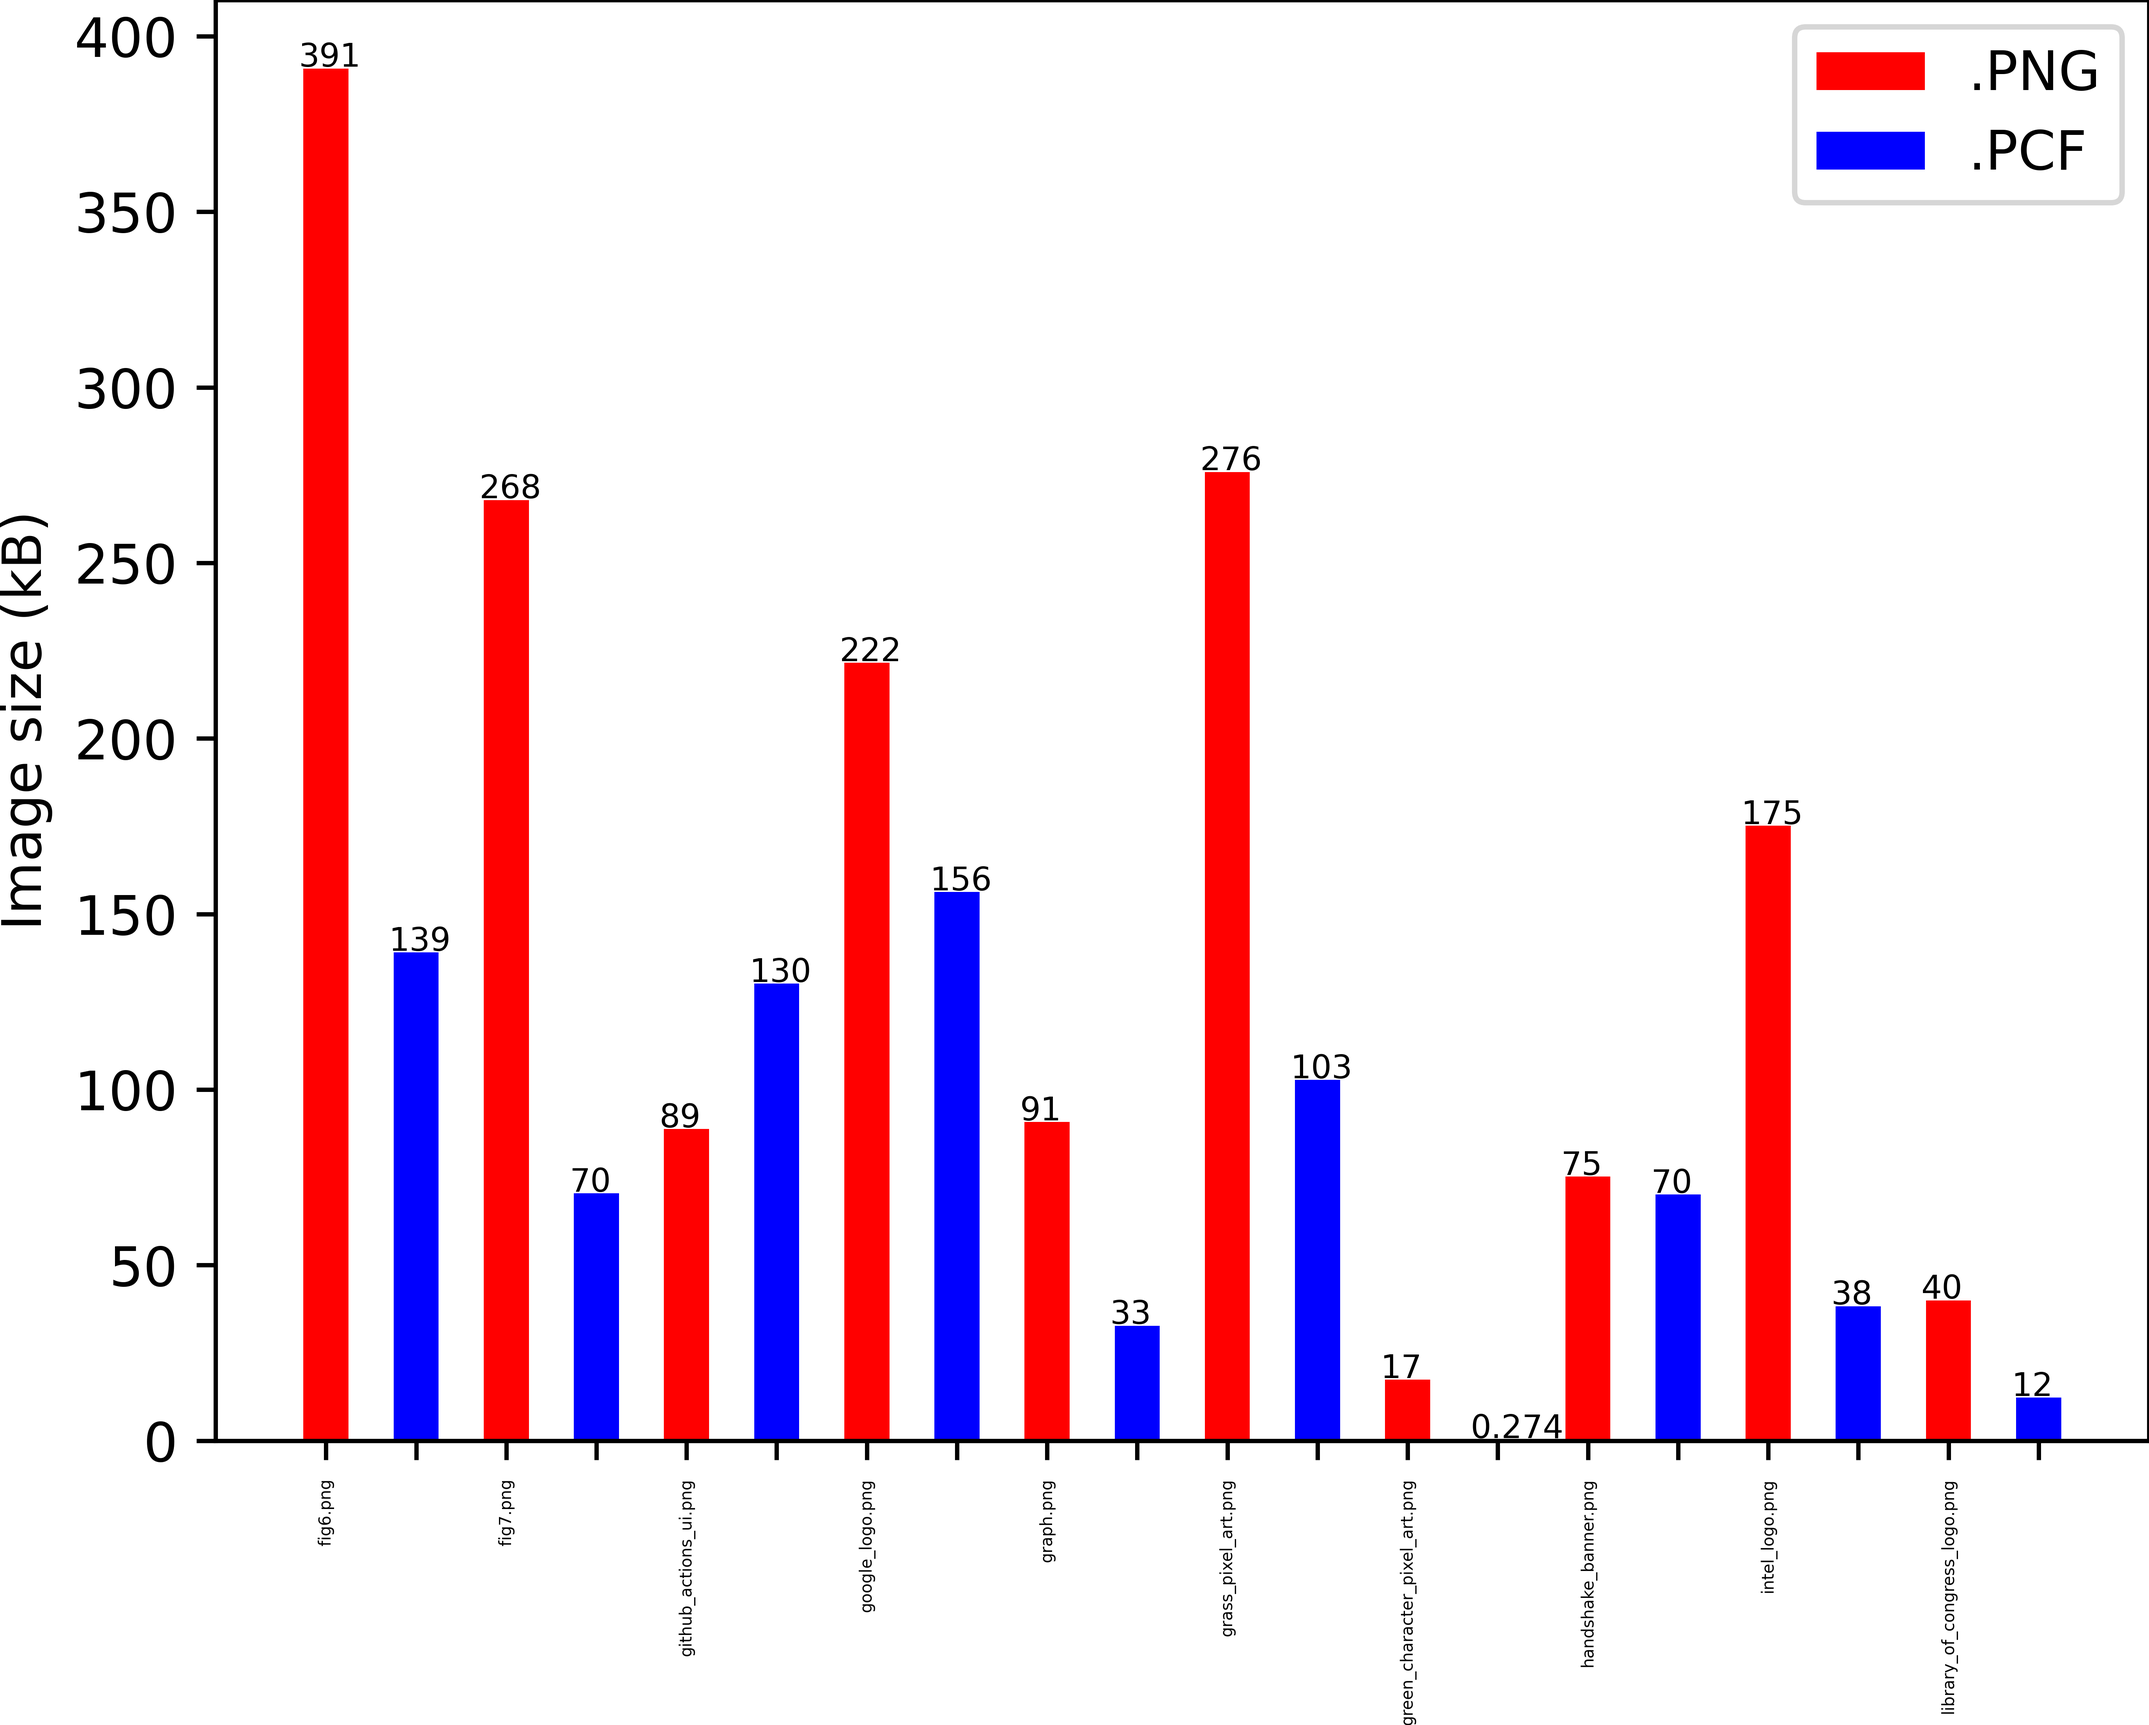
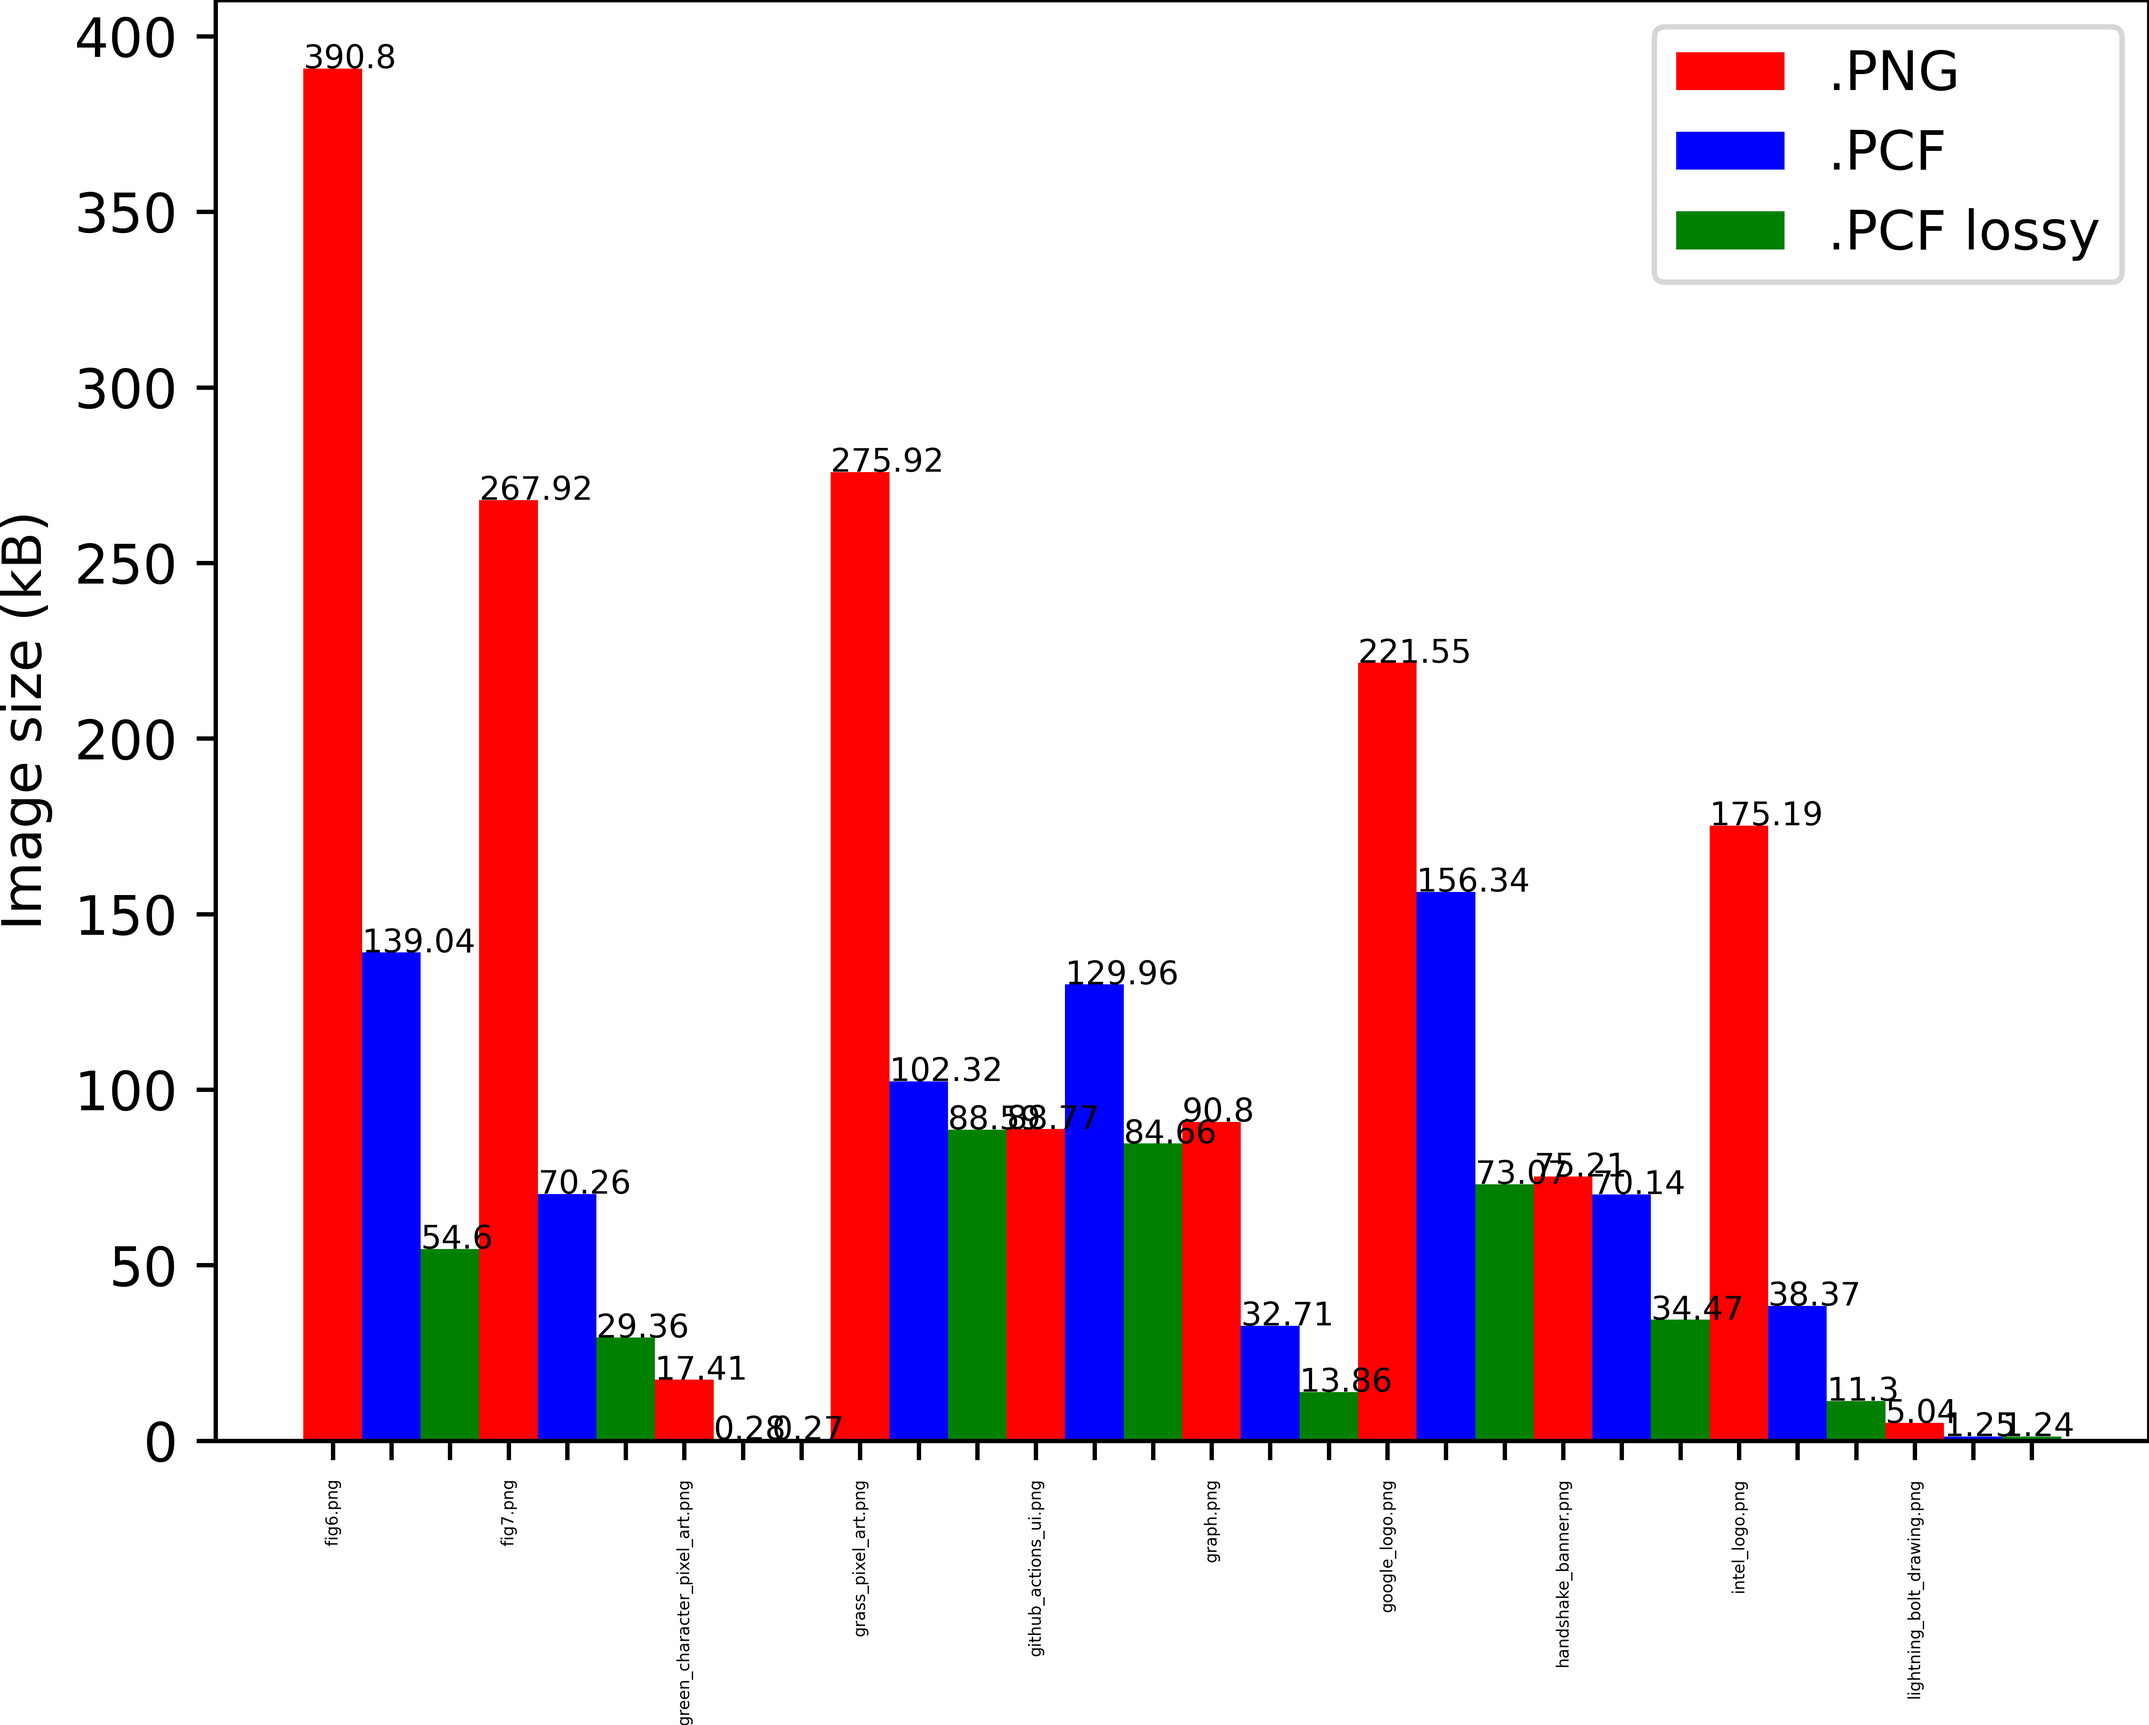
/

diff --git a/plots/plot.py b/plots/plot.py
@@ -1,7 +1,7 @@
-originals_ = [28968, 200156, 84137, 31484, 484, 69602, 122049, 24405, 40134, 27255, 3709, 40808, 17598, 15909, 6581, 411014, 380288, 365610, 392956, 361872, 390800, 267916, 88773, 221554, 90801, 275919, 17411, 75210, 175186, 39994, 5042, 7150, 42950, 1647, 111916, 85339, 44940, 127280, 80025, 1759, 8302, 15927, 1727, 48821, 1666, 221337, 31484, 6476, 70622, 26292, 24253, 29530, 18330, 8955, 140291, 7089, 325313, 206909, 4405, 1858, 9700, 104991, 4129, 3713, 1485, 31484, 9862, 27325, 52214, 21581]
-transformed = [1835, 150247, 49101, 19, 18, 592, 138754, 15451, 20154, 14531, 1152, 57940, 10217, 257, 5004, 137650, 127981, 121892, 129424, 122879, 139094, 70449, 130215, 156277, 32781, 102804, 274, 70141, 38325, 12316, 1249, 658, 17939, 241, 147577, 49773, 87911, 67028, 55255, 342, 12541, 12229, 235, 1243, 170, 163317, 21, 2804, 44526, 11737, 19780, 15769, 15382, 1222, 227504, 10638, 137950, 158356, 4877, 1090, 16839, 80389, 1299, 3582, 72, 20, 8287, 7950, 66643, 1965]
-compressed_lossy = [1835, 150247, 49101, 19, 18, 592, 138754, 15451, 20154, 14531, 1152, 57940, 10217, 257, 5004, 137650, 127981, 121892, 129424, 122879, 139094, 70449, 130215, 156277, 32781, 102804, 274, 70141, 38325, 12316, 1249, 658, 17939, 241, 147577, 49773, 87911, 67028, 55255, 342, 12541, 12229, 235, 1243, 170, 163317, 21, 2804, 44526, 11737, 19780, 15769, 15382, 1222, 227504, 10638, 137950, 158356, 4877, 1090, 16839, 80389, 1299, 3582, 72, 20, 8287, 7950, 66643, 1965]
-names = ["9_squares_solidcolor_pixel_art.png", "among_us_pixel_art.png", "astro_logo.png", "black.png", "blue.png", "blue_ball_pixel_art.png", "boat_drawing.png", "boat_pixel_art.png", "buffalo_university_logo.png", "castle_pixel_art_isometric.png", "cat_pixel_art.png", "chatgpt_logo.png", "computer_blue_screen_screenshot.png", "cube_pixel_art.png", "curve_graph.png", "fig1.png", "fig2.png", "fig3.png", "fig4.png", "fig5.png", "fig6.png", "fig7.png", "github_actions_ui.png", "google_logo.png", "graph.png", "grass_pixel_art.png", "green_character_pixel_art.png", "handshake_banner.png", "intel_logo.png", "library_of_congress_logo.png", "lightning_bolt_drawing.png", "mario-pixel-art.png", "mda_logo.png", "metal_texture_pixel_art.png", "meta_logo.png", "mountains_logo.png", "mtv_logo.png", "musescore_logo.png", "nitrogen_cycle_diagram.png", "npm_logo.png", "nyt_logo.png", "openalex_logo.png", "pixel_art_comparison.png", "pixel_art_isometric_basic_shapes.png", "Pixel_Art_Isometric_Example_3_Bigx4.png", "pplx-default-preview.png", "red.png", "resistor_schematic.png", "rgb_color_palette.png", "shop_logo.png", "simpletv_logo.png", "simple_box_model.png", "simple_shapes_rendering.png", "skulls_pixel_art.png", "skull_and_sword_pixel_art_by_dulcahn_dfn2ikx-pre.png", "spotify_logo.png", "sword_render.png", "table_drawing_schematic.png", "tark-pixel-art.png", "texture_pixel_art.png", "threads_logo.png", "tree_drawing.png", "tree_pixel_art.png", "tv_pixel_art.png", "us_flag_no_stars.png", "white.png", "wikipedia_logo.png", "wood_wall_texture_pixel_art.png", "wordpress_logo.png", "yellow_black.png"]
+names = ["among_us_pixel_art.png", "astro_logo.png", "9_squares_solidcolor_pixel_art.png", "black.png", "blue.png", "blue_ball_pixel_art.png", "boat_pixel_art.png", "boat_drawing.png", "buffalo_university_logo.png", "computer_blue_screen_screenshot.png", "chatgpt_logo.png", "cube_pixel_art.png", "cat_pixel_art.png", "curve_graph.png", "castle_pixel_art_isometric.png", "fig1.png", "fig2.png", "fig3.png", "fig4.png", "fig5.png", "fig6.png", "fig7.png", "green_character_pixel_art.png", "grass_pixel_art.png", "github_actions_ui.png", "graph.png", "google_logo.png", "handshake_banner.png", "intel_logo.png", "lightning_bolt_drawing.png", "library_of_congress_logo.png", "musescore_logo.png", "meta_logo.png", "mountains_logo.png", "mario-pixel-art.png", "mda_logo.png", "mtv_logo.png", "metal_texture_pixel_art.png", "npm_logo.png", "nyt_logo.png", "nitrogen_cycle_diagram.png", "openalex_logo.png", "pixel_art_isometric_basic_shapes.png", "pixel_Art_Isometric_Example_3_Bigx4.png", "pplx-default-preview.png", "pixel_art_comparison.png", "resistor_schematic.png", "red.png", "rgb_color_palette.png", "skulls_pixel_art.png", "simple_shapes_rendering.png", "simple_box_model.png", "sword_render.png", "spotify_logo.png", "skull_and_sword_pixel_art_by_dulcahn_dfn2ikx-pre.png", "shop_logo.png", "simpletv_logo.png", "tark-pixel-art.png", "table_drawing_schematic.png", "tv_pixel_art.png", "tree_drawing.png", "tree_pixel_art.png", "threads_logo.png", "texture_pixel_art.png", "us_flag_no_stars.png", "wordpress_logo.png", "wikipedia_logo.png", "wood_wall_texture_pixel_art.png", "white.png", "yellow_black.png"]
+originals_ = [200156, 84137, 28968, 31484, 484, 69602, 24405, 122049, 40134, 17598, 40808, 15909, 3709, 6581, 27255, 411014, 380288, 365610, 392956, 361872, 390800, 267916, 17411, 275919, 88773, 90801, 221554, 75210, 175186, 5042, 39994, 127280, 111916, 85339, 7150, 42950, 44940, 1647, 1759, 8302, 80025, 15927, 48821, 1666, 221337, 1727, 6476, 31484, 70622, 8955, 18330, 29530, 325313, 7089, 140291, 26292, 24253, 4405, 206909, 3713, 104991, 4129, 9700, 1858, 1485, 52214, 9862, 27325, 31484, 21581]
+transformed = [150258, 49029, 1845, 19, 18, 598, 15514, 138883, 20103, 10210, 58285, 263, 1159, 5015, 14539, 137626, 127795, 121999, 129246, 122993, 139042, 70262, 275, 102319, 129960, 32712, 156338, 70139, 38373, 1250, 12301, 67068, 147368, 49823, 655, 17942, 87719, 246, 344, 12543, 55302, 12206, 1239, 168, 163565, 231, 2797, 21, 44501, 1233, 15358, 15813, 138625, 10615, 227448, 11738, 19801, 4892, 158418, 3588, 80335, 1282, 16816, 1078, 73, 66592, 8301, 7918, 20, 1981]
+compressed_lossy = [72400, 30228, 433, 19, 18, 589, 14700, 68769, 7735, 8249, 20129, 258, 1145, 3027, 13178, 54908, 52232, 50201, 52621, 51131, 54604, 29363, 270, 88595, 84660, 13855, 73066, 34471, 11302, 1242, 4722, 23492, 80877, 20327, 651, 8186, 72211, 236, 199, 4180, 34149, 5863, 1227, 165, 97064, 229, 1424, 21, 20793, 1218, 14642, 8305, 105139, 4045, 114201, 4916, 5403, 4642, 64118, 2926, 31779, 1284, 5321, 1072, 72, 19890, 8286, 5624, 20, 1101]
 
 # Inspired by https://python-graph-gallery.com/10-barplot-with-number-of-observation/
 import matplotlib.pyplot as plt

diff --git a/src/data.rs b/src/data.rs
@@ -1,22 +1,22 @@
 use crate::convert;
 use std::fs;
+use std::fs::{DirEntry, File, OpenOptions};
+use std::io::{Read, Write};
 
-pub fn compare() -> (Vec<String>, Vec<usize>, Vec<usize>) {
+pub fn compare(args:Vec<String>) {
     let mut name: Vec<String> = Vec::new();
     let mut original: Vec<usize> = Vec::new();
     let mut compressed: Vec<usize> = Vec::new();
     let mut compressed_lossy: Vec<usize> = Vec::new();
 
-    let entries = fs::read_dir("test-images/").unwrap();
-    for entry in entries {
-        let entry = entry.unwrap();
-        if entry.path().file_name().unwrap().to_str().unwrap().contains("credits") {
-            continue;
+    fn test_entry(entry: DirEntry,name:&mut Vec<String>, original: &mut Vec<usize>, compressed: &mut Vec<usize>, compressed_lossy: &mut Vec<usize>) {
+        if entry.file_name().to_str().unwrap().to_string().contains("credits") {
+            return;
         }
         name.push(entry.path().file_name().unwrap().to_str().unwrap().to_string());
         original.push(fs::metadata(entry.path()).unwrap().len() as usize);
         println!("Testing lossless");
-        convert(entry.path().to_str().unwrap(), "test.pcf", false, false,false,false,false,false);
+        convert(entry.path().to_str().unwrap(), "test.pcf", false, false, false, false, false, false);
         compressed.push(fs::metadata("test.pcf").unwrap().len() as usize);
 
 
@@ -36,10 +36,34 @@ pub fn compare() -> (Vec<String>, Vec<usize>, Vec<usize>) {
         }
         compressed_lossy.push(*various_sizes.iter().min().unwrap());
         println!("{:?}", entry.path().file_name().unwrap());
+    };
+    let mut file = File::open("data.txt").unwrap();
+    let mut buffer:Vec<u8> = Vec::new();
+    let decoded = file.read_to_end(&mut buffer);
+    // if !buffer.is_empty() {
+        let result:(Vec<String>,Vec<usize>,Vec<usize>,Vec<usize>) = bincode::deserialize(&buffer).unwrap();
+        name = result.0;
+        original = result.1;
+        compressed = result.2;
+        compressed_lossy = result.3;
+    // }
+
+    let entries = fs::read_dir("test-images/").unwrap();
+    for entry in entries {
+        let fuck = entry.unwrap();
+        if fuck.file_name().to_str().unwrap().to_string().starts_with(args.get(1).unwrap()) {
+            test_entry(fuck, &mut name, &mut original, &mut compressed, &mut compressed_lossy);
+        }
     }
     println!("{name:?}");
     println!("{original:?}");
     println!("{compressed:?}");
     println!("{compressed_lossy:?}");
-    (name, original, compressed)
+    let encoded = bincode::serialize(&(name, original, compressed, compressed_lossy)).unwrap();
+    let mut file = OpenOptions::new()
+        .write(true)
+        .truncate(true)
+        .open("data.txt")
+        .unwrap();
+    file.write_all(&encoded).unwrap()
 }

diff --git a/src/main.rs b/src/main.rs
@@ -464,8 +464,9 @@ fn display_menu(left: bool, right: bool,  enter: bool, mode: &mut u8, sel: &mut 
 }
 
 fn main() {
-    compare();
-    // let args: Vec<String> = env::args().collect();
+    let args: Vec<String> = env::args().collect();
+    println!("{args:?}");
+    compare(args);
     // if args.len() == 1 {
     //     let mut mode:u8 = 0;
     //     let mut sel:u8 = 0;
